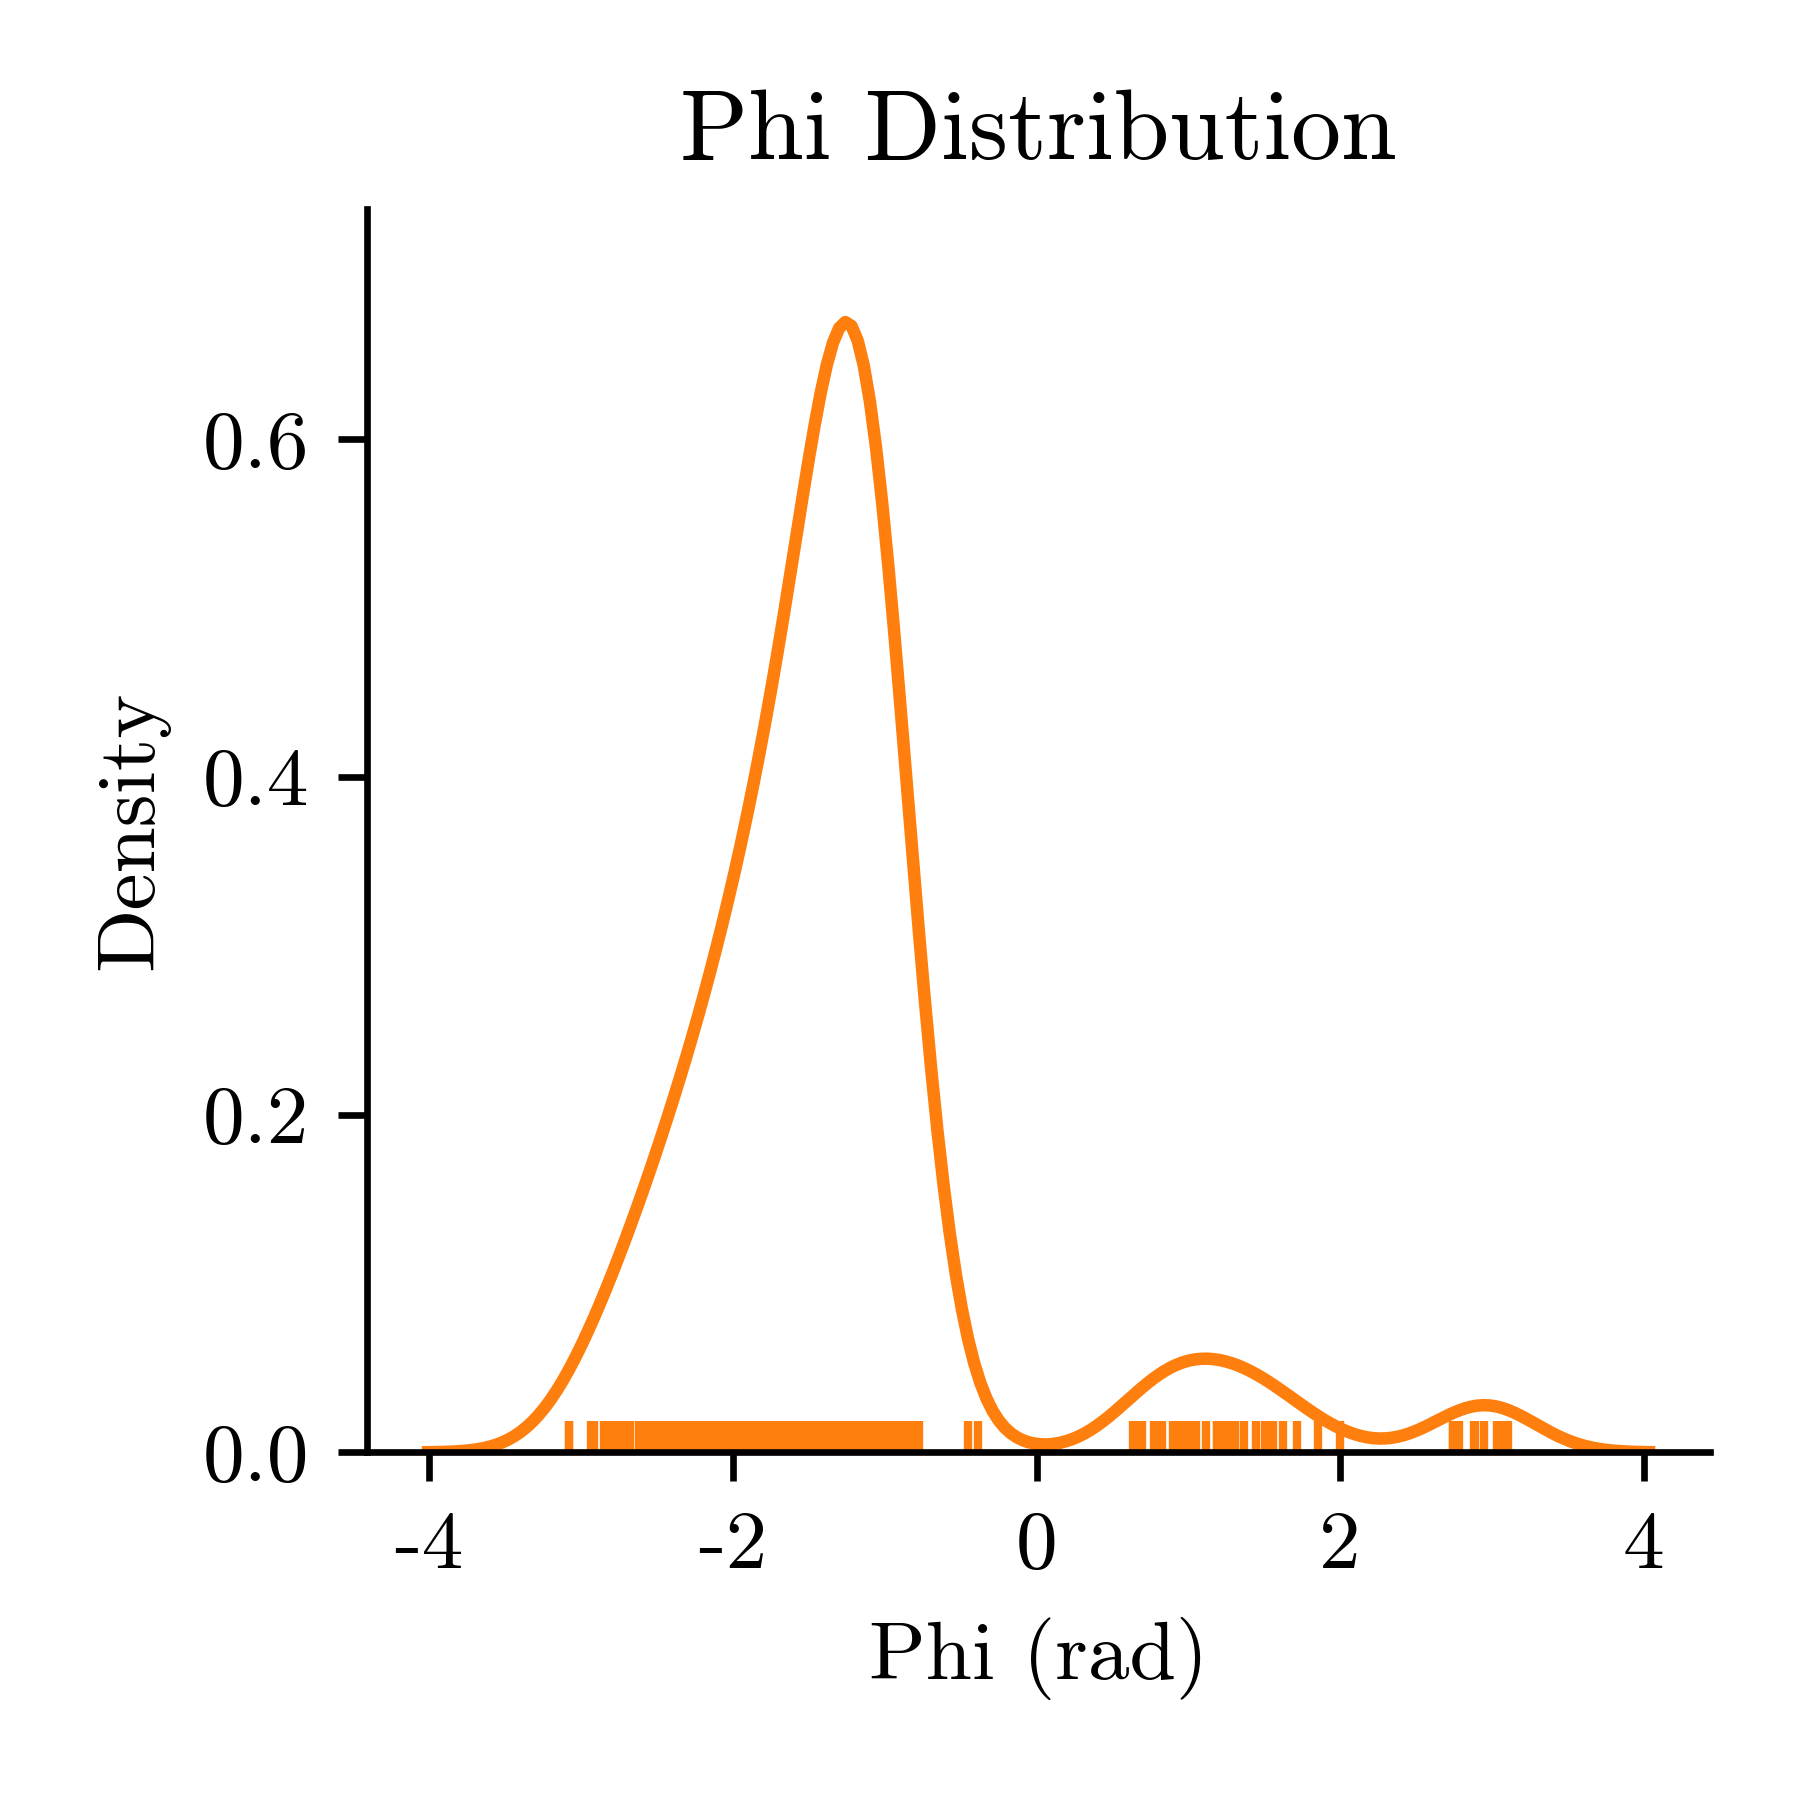
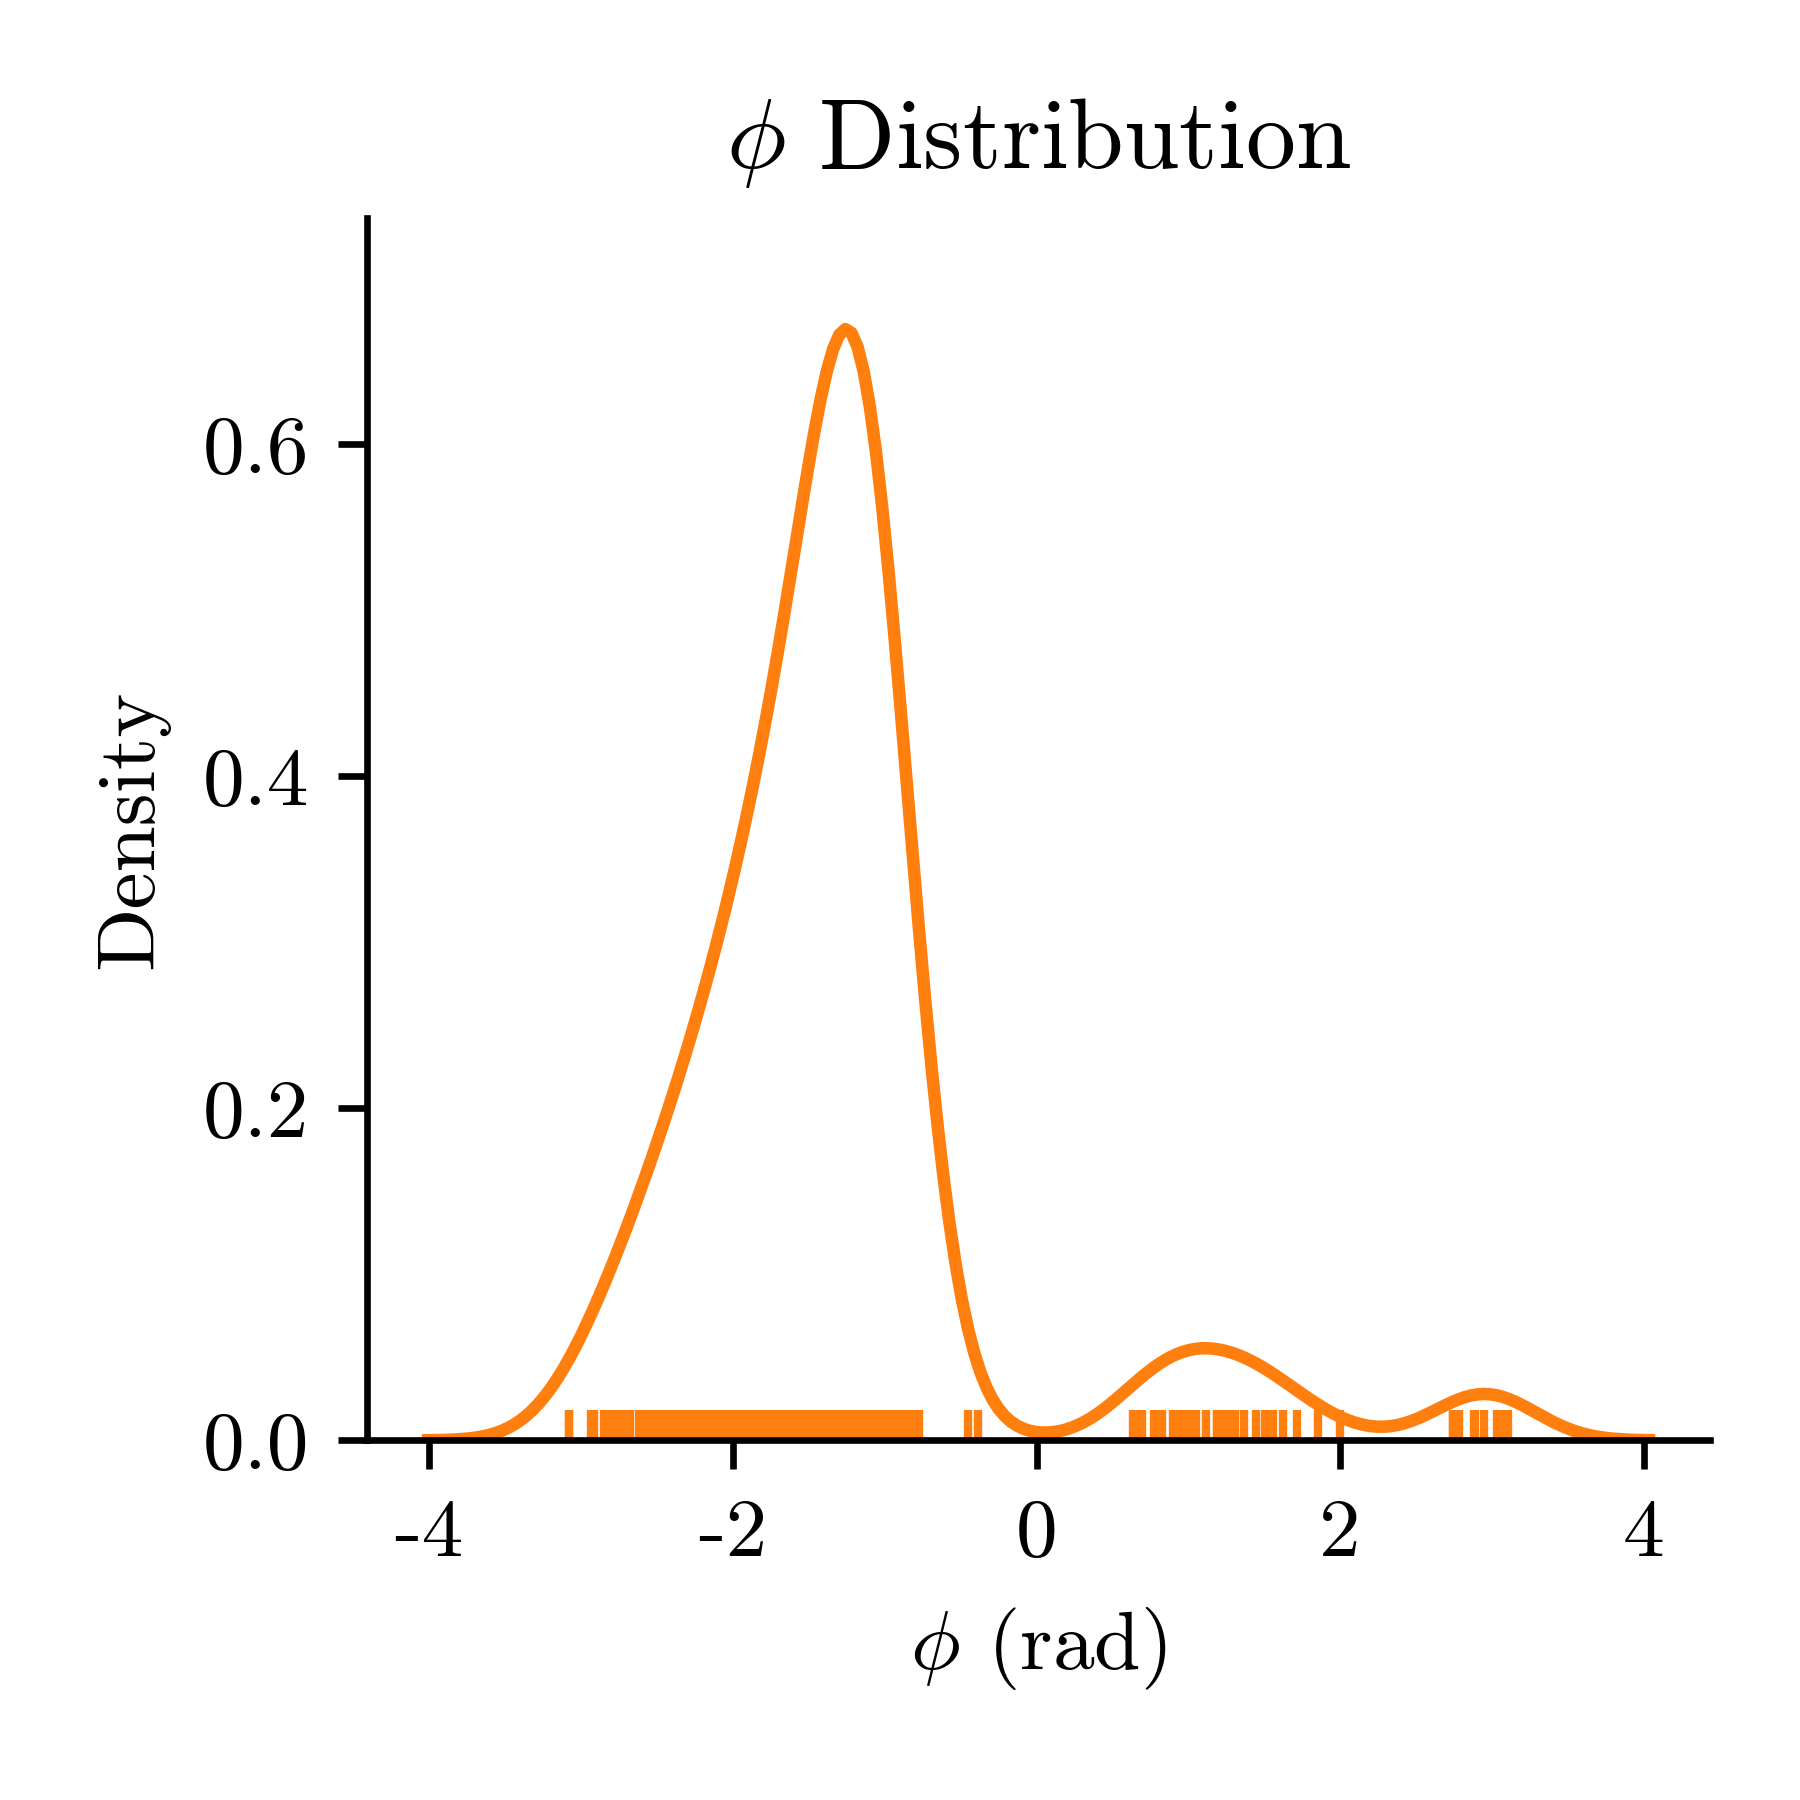
tweak dihedral angles plot

diff --git a/experiments/exp_2/plot_dihedral_angle_dist.py b/experiments/exp_2/plot_dihedral_angle_dist.py
@@ -74,8 +74,8 @@ def main(cfg: DictConfig):
         df_plot, kind="kde", rug=True, color=palette, height=3, aspect=1
     )
 
-    plt.title("Phi Distribution")
-    plt.xlabel("Phi (rad)")
+    plt.title(r"$\phi$ Distribution")
+    plt.xlabel(r"$\phi$ (rad)")
     plt.ylabel("Density")
     plt.tight_layout()
     plt.savefig(
@@ -86,8 +86,8 @@ def main(cfg: DictConfig):
     p = sns.displot(
         df_plot, kind="kde", rug=True, color=palette, height=3, aspect=1
     )
-    plt.title("Psi Distribution")
-    plt.xlabel("Psi (rad)")
+    plt.title(r"$\psi$ Distribution")
+    plt.xlabel(r"$\psi$ (rad)")
     plt.ylabel("Density")
     plt.tight_layout()
     plt.savefig(
